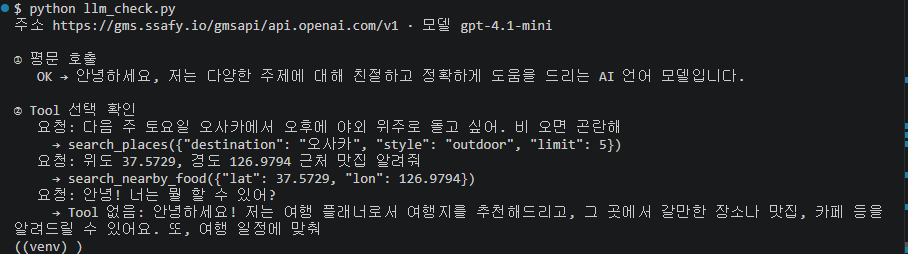
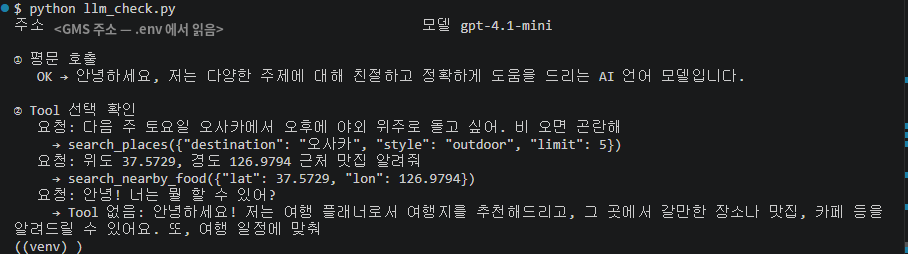
chore: 기관 이름 · 게이트웨이 주소를 저장소에서 빼기
- GMS 주소는 코드 기본값 없이 .env / 환경 변수(GMS_BASE_URL)에서만 읽는다. 없으면 LLM 을 부르지 않고 설정 안내
- render.yaml 의 GMS_BASE_URL 을 sync: false 로 (Render 화면에서 입력)
- README · 문서 · 예시 경로 · User-Agent 에서 기관 이름 제거
- 캡처: 주소 줄 가리기, 브라우저 탭 · 북마크 영역 잘라내기

Claude-Session: https://claude.ai/code/session_01SjP8nec7wZpSJMBdWxcjiB

Changed region(s): [[0.0308, 0.0827, 0.4626, 0.1378]]

diff --git a/app/config.py b/app/config.py
@@ -33,10 +33,12 @@ ACCESS_CODE = os.getenv("ACCESS_CODE", "").strip()
 # ── LLM (GMS) ───────────────────────────────────────────────
 GMS_KEY = os.getenv("GMS_KEY") or os.getenv("GMS_API_KEY")     # 2일차 라이브는 GMS_API_KEY — 둘 다 읽는다
 # GPT 토큰이 다 떨어져 GMS 의 Claude 로 바꿨다 (수업 공지). 모델명 · 주소 · 헤더(x-api-key) 세 가지가 바뀐다
-GMS_BASE_URL = os.getenv("GMS_BASE_URL", "https://gms.ssafy.io/gmsapi/api.anthropic.com/v1")
+# GMS 주소는 코드에 적지 않고 .env (배포는 환경 변수) 에서만 읽는다. 비어 있으면 LLM 을 부르지 않는다
+GMS_BASE_URL = (os.getenv("GMS_BASE_URL") or "").strip().rstrip("/")
 GMS_MODEL = os.getenv("GMS_MODEL", "claude-haiku-5-5")
 # 임베딩(문서 검색 F3022)은 Claude 에 없어서 OpenAI 쪽 주소를 따로 둔다. 실패하면 해시 벡터로 대체된다
-GMS_EMBED_BASE_URL = os.getenv("GMS_EMBED_BASE_URL", "https://gms.ssafy.io/gmsapi/api.openai.com/v1")
+# 따로 주지 않으면 같은 게이트웨이의 OpenAI 쪽 주소로 바꿔 쓴다
+GMS_EMBED_BASE_URL = (os.getenv("GMS_EMBED_BASE_URL") or GMS_BASE_URL.replace("api.anthropic.com", "api.openai.com")).rstrip("/")
 
 
 def gms_headers() -> dict:

diff --git a/llm_check.py b/llm_check.py
@@ -2,7 +2,7 @@
 
 준비 (.env):
     GMS_KEY=발급받은_키
-    GMS_BASE_URL=...     (선택) 기본값이 안 맞으면 GMS 사이트에 안내된 주소로 바꾼다
+    GMS_BASE_URL=...     GMS 사이트에 안내된 주소 (…/api.anthropic.com/v1)
     GMS_MODEL=...        (선택) 기본 claude-haiku-5-5
 
 실행:  python llm_check.py
@@ -20,7 +20,7 @@ from tools import catalog
 
 load_dotenv()
 KEY = os.getenv("GMS_KEY") or os.getenv("GMS_API_KEY")
-BASE_URL = os.getenv("GMS_BASE_URL", "https://gms.ssafy.io/gmsapi/api.anthropic.com/v1").rstrip("/")
+BASE_URL = (os.getenv("GMS_BASE_URL") or "").rstrip("/")   # 주소는 .env 에서만 (코드에 적지 않는다)
 MODEL = os.getenv("GMS_MODEL", "claude-haiku-5-5")
 
 
@@ -49,6 +49,8 @@ REQUESTS = [
 if __name__ == "__main__":
     if not KEY:
         raise SystemExit(".env 에 GMS_KEY 가 없습니다.")
+    if not BASE_URL:
+        raise SystemExit(".env 에 GMS_BASE_URL(GMS 사이트에 안내된 주소)을 넣어 주세요.")
     print(f"주소 {BASE_URL} · 모델 {MODEL}\n")
 
     print("① 평문 호출")

diff --git a/app/api/meta.py b/app/api/meta.py
@@ -21,7 +21,8 @@ def status():
     from ..main import logging_agent
     return {
         "keys": [{"name": k, "label": v,
-                  "set": bool(os.getenv(k) or (k == "GMS_KEY" and os.getenv("GMS_API_KEY")))} for k, v in KEYS.items()],
+                  "set": bool(os.getenv(k) or (k == "GMS_KEY" and os.getenv("GMS_API_KEY")))
+                         and (k != "GMS_KEY" or bool(config.GMS_BASE_URL))} for k, v in KEYS.items()],
         "settings": {"rain_threshold": config.RAIN_THRESHOLD, "walk_kmh": config.WALK_KMH, "detour": config.DETOUR,
                      "min_stay_min": config.MIN_STAY_MIN, "max_places": config.MAX_PLACES,
                      "max_replan": config.MAX_REPLAN, "default_window": config.DEFAULT_WINDOW,

diff --git a/app/agent/llm.py b/app/agent/llm.py
@@ -83,6 +83,8 @@ def structured(schema, messages, temperature: float = 0):
 def get_llm(temperature: float = 0):
     if not config.GMS_KEY:
         raise LLMUnavailable("GMS_KEY")
+    if not config.GMS_BASE_URL:              # 주소가 없으면 키를 엉뚱한 곳(기본 OpenAI)으로 보내지 않게 멈춘다
+        raise LLMUnavailable("GMS_BASE_URL")
     from langchain_openai import ChatOpenAI
     # temperature 는 받는 모델에만 넘긴다. gpt-5 · o 계열(2일차 gpt-5.4-nano)과 claude-haiku-5-5 는
     # 'temperature is deprecated for this model' 로 400 을 낸다 (실제로 GMS 에서 확인)

diff --git a/app/agent/runner.py b/app/agent/runner.py
@@ -9,8 +9,8 @@ from .. import config
 from . import llm, memory
 from .events import RunEmitter, Timer
 
-KEY_GUIDE = ("LLM 키(GMS_KEY)가 설정되지 않았어요. TripPlanner 폴더의 .env 에 GMS_KEY=발급받은_키 를 넣고 "
-             "서버를 다시 켜 주세요.")
+KEY_GUIDE = ("LLM 키(GMS_KEY) 또는 주소(GMS_BASE_URL)가 설정되지 않았어요. TripPlanner 폴더의 .env 에 "
+             "GMS_KEY=발급받은_키 와 GMS_BASE_URL=안내받은_주소 를 넣고 서버를 다시 켜 주세요.")
 
 
 def run_agent(message: str, session_id: str | None = None) -> dict:

diff --git a/tests/fakes.py b/tests/fakes.py
@@ -12,6 +12,7 @@ from pathlib import Path
 ROOT = Path(__file__).resolve().parent.parent
 sys.path.insert(0, str(ROOT))
 os.environ["GMS_KEY"] = "offline-test"
+os.environ.setdefault("GMS_BASE_URL", "https://gms.example/gmsapi/api.anthropic.com/v1")   # 시험용 가짜 주소
 os.environ.setdefault("DB_PATH", str(ROOT / "data" / "test_offline.db"))
 if Path(os.environ["DB_PATH"]).name.startswith("test_"):    # 시험용 DB 는 매번 비우고 시작 (지난 실행의 약속이 섞이지 않게)
     Path(os.environ["DB_PATH"]).unlink(missing_ok=True)

diff --git a/app/rag.py b/app/rag.py
@@ -8,7 +8,7 @@
 색인과 질의의 임베딩 방식이 다르면 검색 품질이 떨어지므로, 결과에 어떤 임베딩을 썼는지 함께 돌려준다.
 
     RAG_DB_DIR   ChromaDB 폴더. 기본 TripPlanner/data/chroma
-                 2회차 폴더의 chroma_db 를 그대로 가리켜도 된다 (예: C:/Users/SSAFY/Desktop/TripPilot/chroma_db)
+                 2회차 폴더의 chroma_db 를 그대로 가리켜도 된다 (예: C:/Users/<사용자>/Desktop/TripPilot/chroma_db)
 """
 import hashlib
 import math

diff --git a/tools.py b/tools.py
@@ -144,7 +144,7 @@ _WIKI_CACHE: dict[str, str | None] = {}
 def _wiki_fetch(host: str, title: str) -> dict | None:
     try:
         r = requests.get(f"{host}/api/rest_v1/page/summary/{title}", timeout=4,
-                         headers={"User-Agent": "TripPlanner/1.0 (SSAFY AI project)"})
+                         headers={"User-Agent": "TripPlanner/1.0 (student project)"})
         if r.ok:
             j = r.json()
             if j.get("type") == "standard" and j.get("extract"):

diff --git a/rag_index.py b/rag_index.py
@@ -5,7 +5,7 @@
     python rag_index.py --check      색인 상태와 시험 검색 한 번
 
 2회차 폴더에 이미 만든 chroma_db 가 있으면 색인을 다시 만들 필요 없이 .env 에
-    RAG_DB_DIR=C:/Users/SSAFY/Desktop/TripPilot/chroma_db
+    RAG_DB_DIR=C:/Users/<사용자>/Desktop/TripPilot/chroma_db
 를 넣으면 travel_meta 와 travel_wiki(위키백과 청크)를 함께 검색한다.
 """
 import sys

diff --git a/README.md b/README.md
@@ -6,7 +6,7 @@
 
 **🔗 배포: https://tripplanner-jpqn.onrender.com** (무료 요금제라 첫 접속은 30~50초 걸릴 수 있어요)
 
-SSAFY AI 코어 프로젝트 3회차 (개인) · 2회차 [TripPilot](https://github.com/strongsun806/TripPilot)(RAG 여행 플래너)의 도메인과 Vector DB 를 이어 쓴다.
+AI 코어 프로젝트 3회차 (개인) · 2회차 [TripPilot](https://github.com/strongsun806/TripPilot)(RAG 여행 플래너)의 도메인과 Vector DB 를 이어 쓴다.
 
 ![홈 — 출발 안내판과 이륙 장면](docs/images/4-5_home.png)
 
@@ -103,7 +103,7 @@ python rag_index.py
 
 | 키 | 받는 곳 | 쓰는 Tool |
 |---|---|---|
-| `GMS_KEY` | SSAFY GMS | 요청 분석 · 응답 작성 (Claude `claude-haiku-5-5`) |
+| `GMS_KEY` · `GMS_BASE_URL` | 교육 과정 GMS (LLM 게이트웨이) 안내 | 요청 분석 · 응답 작성 (Claude `claude-haiku-5-5`) |
 | `GEOAPIFY_KEY` | geoapify.com | `search_places` |
 | `VISUALCROSSING_KEY` | visualcrossing.com | `get_weather` |
 | `KAKAO_REST_KEY` | developers.kakao.com (REST API 키) | `search_nearby_food` |
@@ -119,7 +119,7 @@ python rag_index.py
 [![Deploy to Render](https://render.com/images/deploy-to-render-button.svg)](https://render.com/deploy?repo=https://github.com/strongsun806/TripPlanner)
 
 1. 위 버튼 → GitHub 로 Render 로그인 → 저장소 연결
-2. 환경 변수 채우기: `GMS_KEY` · `GEOAPIFY_KEY` · `VISUALCROSSING_KEY` · `KAKAO_REST_KEY`, 그리고 **`ACCESS_CODE`**(접속 코드)
+2. 환경 변수 채우기: `GMS_KEY` · `GMS_BASE_URL` · `GEOAPIFY_KEY` · `VISUALCROSSING_KEY` · `KAKAO_REST_KEY`, 그리고 **`ACCESS_CODE`**(접속 코드)
 3. 배포가 끝나면 `https://<서비스 이름>.onrender.com` — 화면은 `/`, API 문서는 `/docs` (현재 배포: https://tripplanner-jpqn.onrender.com)
 
 | 알아 둘 것 | |
@@ -128,7 +128,7 @@ python rag_index.py
 | 잠들기 | 무료 요금제는 15분 동안 요청이 없으면 잠들고, 다음 첫 접속이 30초쯤 걸린다 |
 | 데이터 | 무료 요금제에는 영구 디스크가 없어 저장한 일정 · 실행 로그는 재배포 · 재시작 때 비워진다 (시연용) |
 | 문서 검색 | 빌드 때 `rag_index.py` 로 색인을 만든다 |
-| GMS | 배포 서버에서 SSAFY GMS 에 닿지 않으면 LLM 이 실패하고, 화면에 원인별 안내가 뜬다 |
+| GMS | 배포 서버에서 GMS 에 닿지 않으면 LLM 이 실패하고, 화면에 원인별 안내가 뜬다 |
 
 
 ## 검증
@@ -168,7 +168,7 @@ python rag_index.py
 
 | 영역 | 사용 |
 |---|---|
-| Agent | LangGraph 1.2 (StateGraph) · LangChain · Claude (SSAFY GMS, OpenAI 호환 호출) |
+| Agent | LangGraph 1.2 (StateGraph) · LangChain · Claude (GMS 게이트웨이, OpenAI 호환 호출) |
 | 백엔드 | FastAPI · Pydantic · SQLite · Uvicorn |
 | 검색 | ChromaDB (2회차 TripPilot 색인과 같은 임베딩) |
 | 화면 | HTML · CSS · JavaScript (프레임워크 없음) · 글꼴 Y이든스트릿 · Pretendard |

diff --git a/docs/01_도메인_확정.md b/docs/01_도메인_확정.md
@@ -80,7 +80,7 @@
 
 ## 7. 기획 검증 — 도구 연결 확인 (2026-11-18, `python llm_check.py`)
 
-증빙: `images/2-7_llm_tool_select.png` · 주소 `https://gms.ssafy.io/gmsapi/api.openai.com/v1` · 모델 `gpt-4.1-mini`
+증빙: `images/2-7_llm_tool_select.png` · 주소 `<GMS 주소>/gmsapi/api.openai.com/v1` · 모델 `gpt-4.1-mini`
 
 | 확인 | 결과 |
 |---|---|
